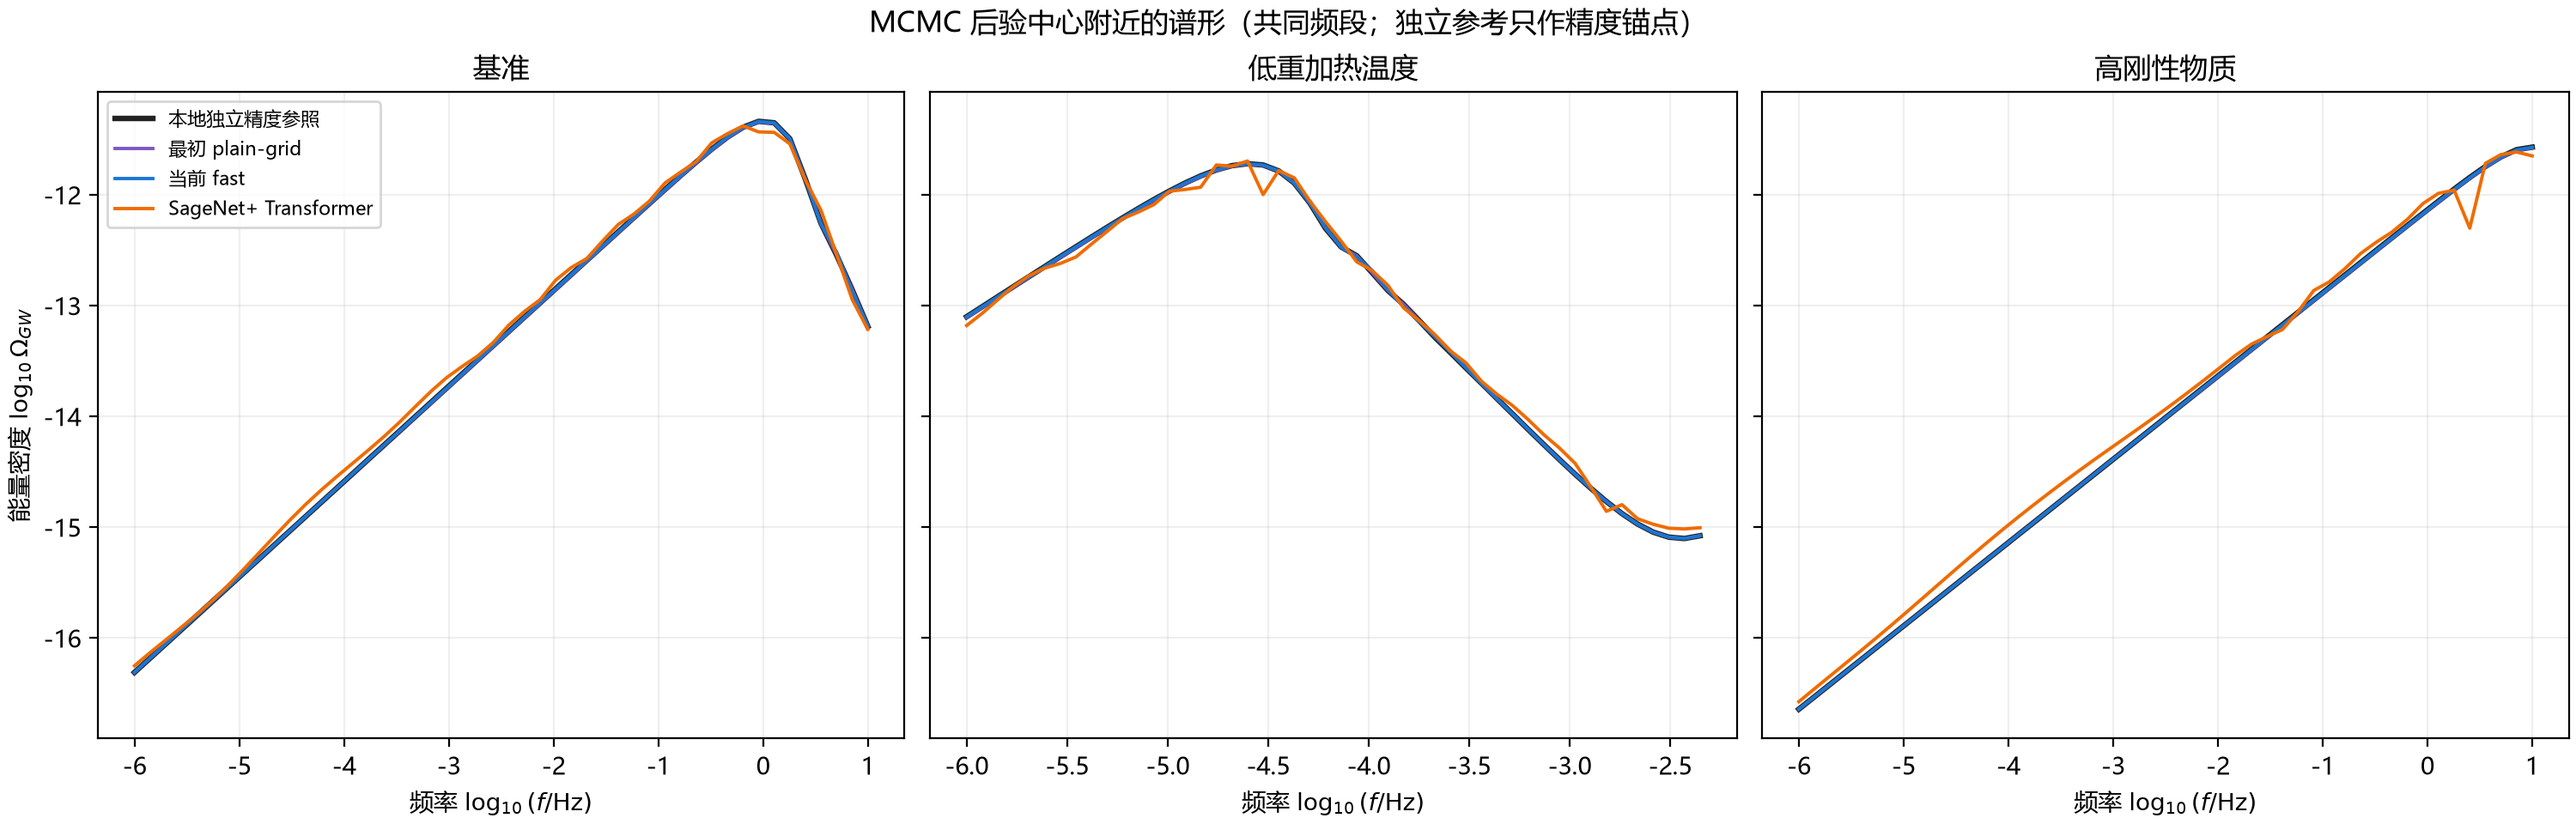
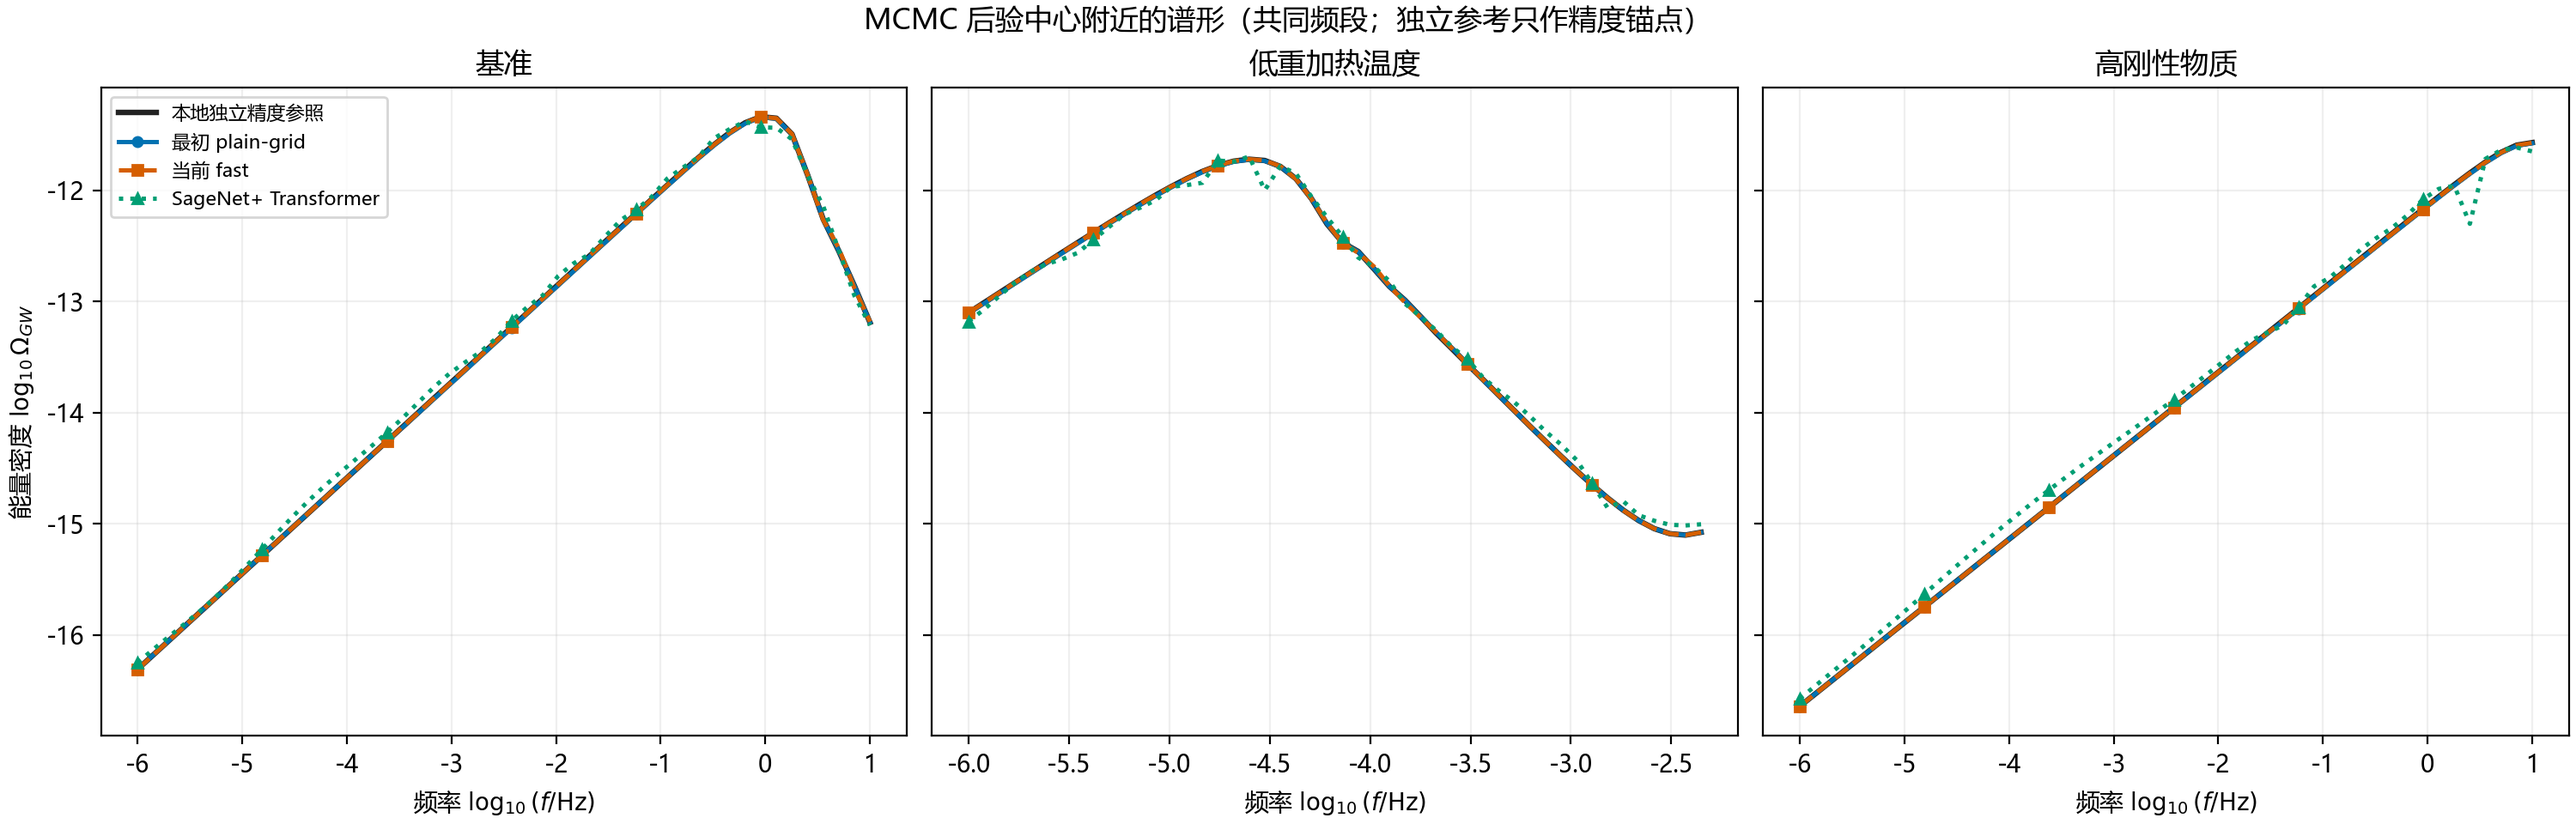
MCMC figures：更新高对比配色和报告插图

diff --git a/scripts/benchmark_mcmc_sagenet_compare.py b/scripts/benchmark_mcmc_sagenet_compare.py
@@ -392,28 +392,35 @@ def make_plots(result: dict, chain_store: dict, logf_oracle: np.ndarray) -> None
     import matplotlib
     matplotlib.use("Agg")
     import matplotlib.pyplot as plt
+    from matplotlib.colors import LinearSegmentedColormap
 
     plt.rcParams["font.sans-serif"] = ["Microsoft YaHei", "SimHei", "Noto Sans CJK SC", "DejaVu Sans"]
     plt.rcParams["axes.unicode_minus"] = False
 
-    colors = {"最初 plain-grid": "#7e57c2", "当前 fast": "#1976d2", "SageNet+ Transformer": "#ef6c00"}
-    fig, axes = plt.subplots(1, len(CONTEXTS), figsize=(15, 4.8), constrained_layout=True)
-    for ax, (context_name, _) in zip(axes, CONTEXTS.items()):
-        for i, engine in enumerate(ENGINES):
+    # Color-blind-friendly, high-contrast palette used consistently in all figures.
+    colors = {"最初 plain-grid": "#0072B2", "当前 fast": "#D55E00", "SageNet+ Transformer": "#009E73"}
+    markers = {"最初 plain-grid": "o", "当前 fast": "s", "SageNet+ Transformer": "^"}
+    line_styles = {"最初 plain-grid": "-", "当前 fast": "--", "SageNet+ Transformer": ":"}
+    fig, axes = plt.subplots(len(ENGINES), len(CONTEXTS), figsize=(15, 9),
+                             sharex=True, sharey=True, constrained_layout=True)
+    for row_index, engine in enumerate(ENGINES):
+        for col_index, context_name in enumerate(CONTEXTS):
+            ax = axes[row_index, col_index]
+            i = ENGINES.index(engine)
             samples = chain_store[f"{context_name}_{i}"].reshape(-1, 2)
             ax.hexbin(samples[:, 0], samples[:, 1], gridsize=32, mincnt=1,
-                      bins="log", cmap={"最初 plain-grid": "Purples", "当前 fast": "Blues",
-                                       "SageNet+ Transformer": "Oranges"}[engine],
-                      alpha=0.34, linewidths=0.0)
+                      bins="log", cmap=LinearSegmentedColormap.from_list(
+                          f"posterior_{i}", ["#FFFFFF", colors[engine]], N=256),
+                      alpha=0.95, linewidths=0.0)
             mean = np.mean(samples, axis=0)
-            ax.plot(mean[0], mean[1], marker="o", color=colors[engine], ms=5,
-                    label=engine if context_name == next(iter(CONTEXTS)) else None)
-        ax.set_title(context_name)
-        ax.set_xlabel(r"$\log_{10}(r)$")
-        ax.grid(alpha=0.2)
-    axes[0].set_ylabel(r"$n_t$")
-    axes[0].legend(fontsize=8, loc="best")
-    fig.suptitle("同一 LVK 数据下的 MCMC 后验分布（每种方法 3 条独立链）")
+            ax.plot(mean[0], mean[1], marker=markers[engine], color=colors[engine],
+                    markeredgecolor="#202020", markeredgewidth=0.8, ms=6,
+                    label=engine)
+            ax.set_title(context_name)
+            ax.set_xlabel(r"$\log_{10}(r)$")
+            ax.grid(alpha=0.2)
+            ax.set_ylabel(r"$n_t$" + (f"\n{engine}" if col_index == 0 else ""))
+    fig.suptitle("MCMC 后验分布：按方法分行、按参数情景分列（每格 3 条链）")
     fig.savefig(OUT / "mcmc_posterior.png", dpi=200)
     plt.close(fig)
 
@@ -449,7 +456,9 @@ def make_plots(result: dict, chain_store: dict, logf_oracle: np.ndarray) -> None
                 label="本地独立精度参照")
         for i, engine in enumerate(ENGINES):
             row = ref["engines"][engine]
-            ax.plot(freq, row["spectrum_log10"], color=colors[engine], lw=1.4,
+            ax.plot(freq, row["spectrum_log10"], color=colors[engine], lw=1.8,
+                    linestyle=line_styles[engine], marker=markers[engine], markevery=8,
+                    ms=4,
                     label=engine if context_name == next(iter(CONTEXTS)) else None)
         ax.set_title(context_name)
         ax.set_xlabel(r"频率 $\log_{10}(f/\mathrm{Hz})$")
@@ -525,7 +534,8 @@ def write_report(result: dict) -> None:
               "- 精度参照：本地连续-sigma 独立求解器（rtol=1e-7，z_tail=8）只在 MCMC 后验中心附近、三种方法共同覆盖的频段比较 48 个频率点；它不参加 MCMC。", "",
               "## 结果文件", "",
               "### 后验样本分布", "",
-              "横轴是 `log10(r)`，纵轴是斜率 `n_t`；同色区域越密表示链越常访问该参数组合。", "",
+              "横轴是 `log10(r)`，纵轴是斜率 `n_t`；颜色越深表示链越常访问该参数组合。图按方法分行、按情景分列，避免三种分布叠加后颜色混在一起。", "",
+              "三种方法使用固定高对比颜色：最初 plain-grid 为蓝色、当前 fast 为橙色、SageNet+ 为绿色；本次已用新配色重绘并替换旧图。", "",
               "![三种方法的 MCMC 后验样本分布](mcmc_posterior.png)", "",
               "### 速度与有效样本", "",
               "每步时间越低越快；有效样本/秒越高，表示同样时间内可用的独立信息越多。", "",
